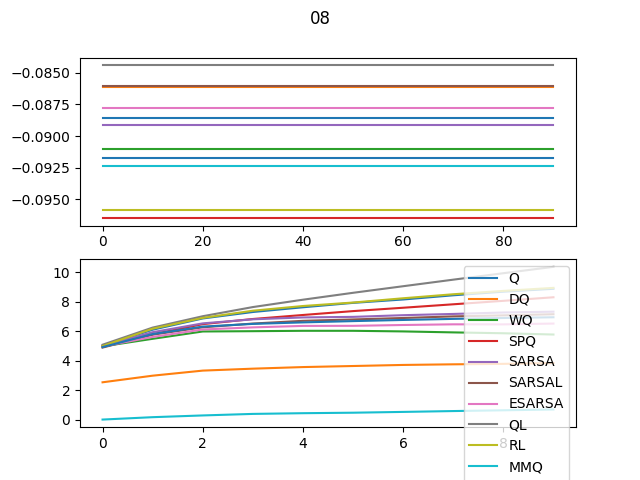
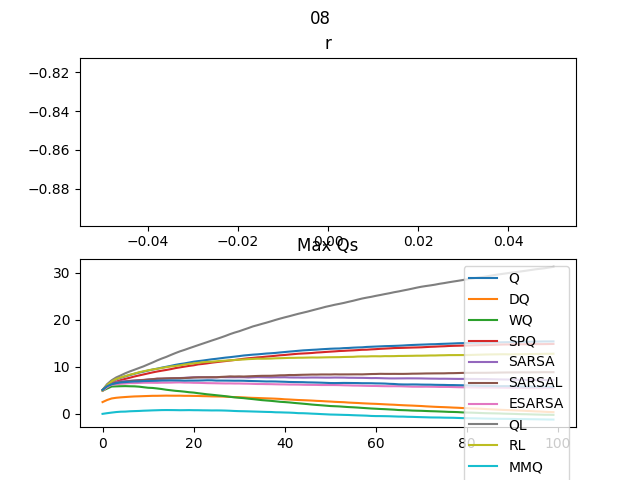
setup simple run

diff --git a/grid_world_simple.py b/grid_world_simple.py
@@ -16,6 +16,7 @@ from mushroom_rl.utils.callbacks import CollectDataset, CollectMaxQ
 from mushroom_rl.utils.dataset import parse_dataset
 from mushroom_rl.utils.parameters import ExponentialParameter
 from sklearn.ensemble import ExtraTreesRegressor
+import time
 
 
 """
@@ -80,7 +81,7 @@ def experiment(algorithm_class, exp):
         
     # Train
     if algorithm_class in TD_agents:
-        core.learn(n_steps=100, n_steps_per_fit=1, quiet=True) #fewer steps for debugging
+        core.learn(n_steps=10, n_steps_per_fit=1, quiet=True) #fewer steps for debugging
     elif algorithm_class in [FQI]:
         core.learn(n_episodes=10, n_episodes_per_fit=10)
     ## may need to call learn with different parameters for some agents
@@ -102,13 +103,19 @@ if __name__ == '__main__':
              WeightedQLearning: 'WQ', SpeedyQLearning: 'SPQ', SARSA: 'SARSA',
              SARSALambda: 'SARSAL', ExpectedSARSA: 'ESARSA', QLambda: 'QL', RLearning: 'RL', MaxminQLearning: 'MMQ', RQLearning: 'RQ', FQI: 'FQI'}
 
-    for e in [1, .8]:
+    #open('nps_simple/times.txt', 'w').close()
+
+    for e in [.8]:
         logger.info(f'Exp: {e}')
         fig = plt.figure()
         plt.suptitle(names[e])
         legend_labels = []
+        ticbig = time.perf_counter()
         for a in [QLearning, DoubleQLearning, WeightedQLearning,
                   SpeedyQLearning, SARSA, SARSALambda, ExpectedSARSA, QLambda, RLearning, MaxminQLearning, RQLearning,]: # could add FQI
+            
+            tic = time.perf_counter()
+
             logger.info(f'Alg: {names[a]}')
             out = Parallel(n_jobs=-1)(
                 delayed(experiment)(a, e) for _ in range(n_experiment))
@@ -118,8 +125,15 @@ if __name__ == '__main__':
             r = np.convolve(np.mean(r, 0), np.ones(100) / 100., 'valid')
             max_Qs = np.mean(max_Qs, 0)
 
-            np.save('nps/' + names[a] + '_' + names[e] + '_r.npy', r)
-            np.save('nps/' + names[a] + '_' + names[e] + '_maxQ.npy', max_Qs)
+            toc = time.perf_counter()
+
+            file = open('nps_simple/times.txt', 'a')
+            file.write('Method ' + names[a] + ' took ' + str((toc-tic)/60) + ' minutes.')
+            file.write("\n")
+            file.close()
+
+            np.save('nps_simple/' + names[a] + '_' + names[e] + '_r.npy', r)
+            np.save('nps_simple/' + names[a] + '_' + names[e] + '_maxQ.npy', max_Qs)
 
             print("r")
             print(r)
@@ -135,4 +149,10 @@ if __name__ == '__main__':
             plt.title("Max Qs")
             legend_labels.append(names[a])
         plt.legend(legend_labels)
-        fig.savefig('test_' + names[e] + '.png')
+        fig.savefig('results_simple/test_' + names[e] + '.png')
+
+
+        tocbig = time.perf_counter()
+        file = open('results_simple/times.txt', 'a')
+        file.write('Overall: ' + str((tocbig-ticbig)/60) + ' minutes.')
+        file.close()
